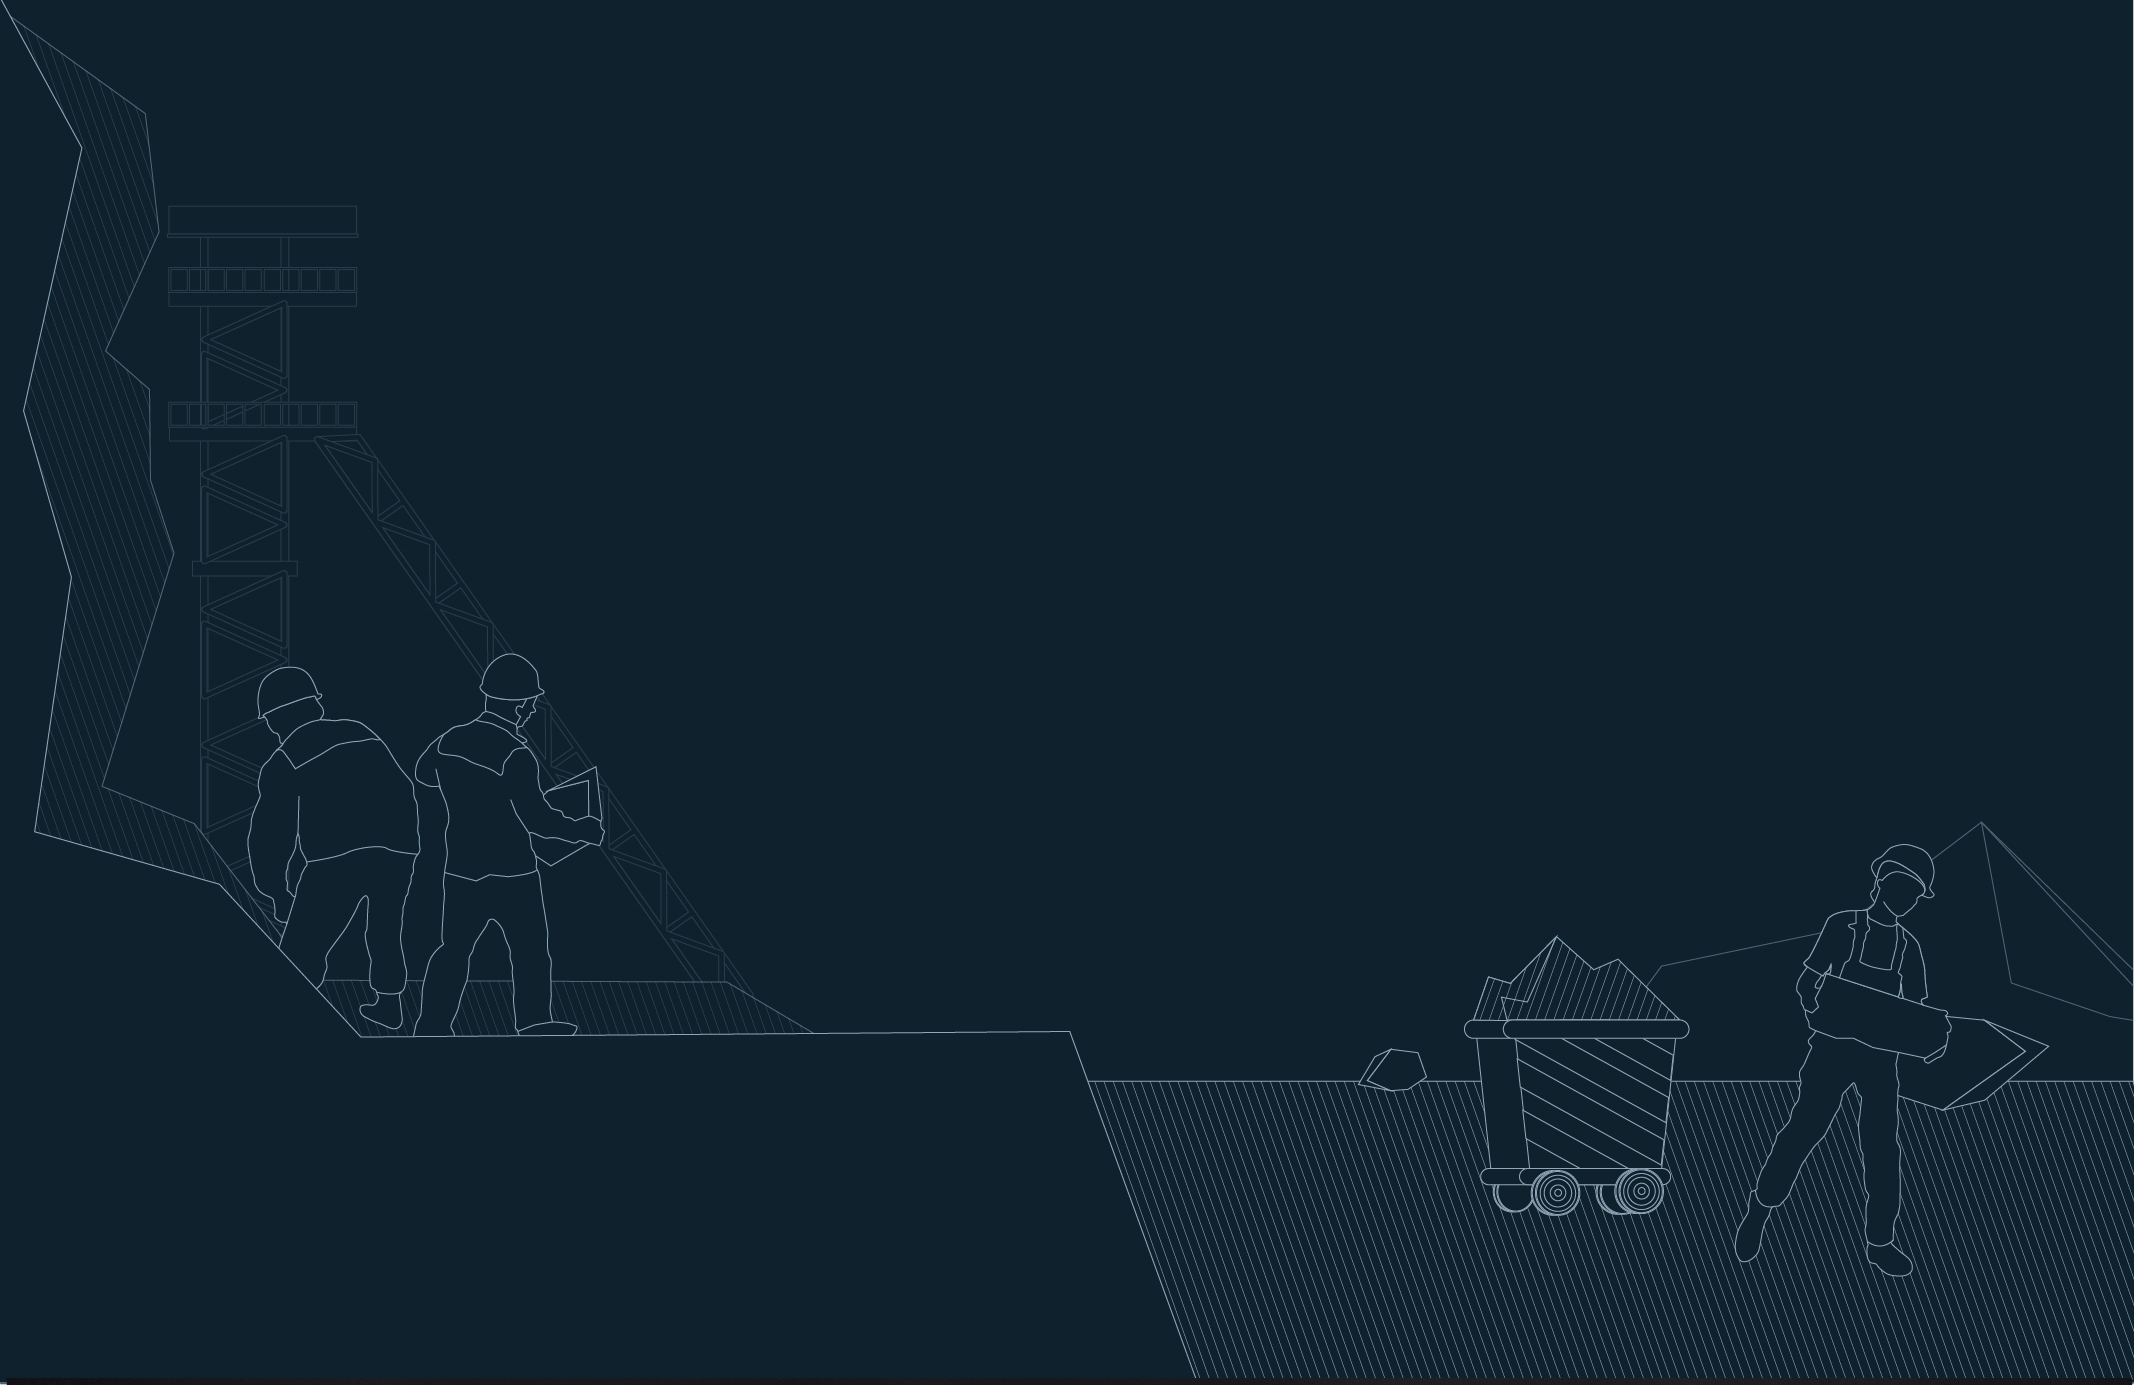
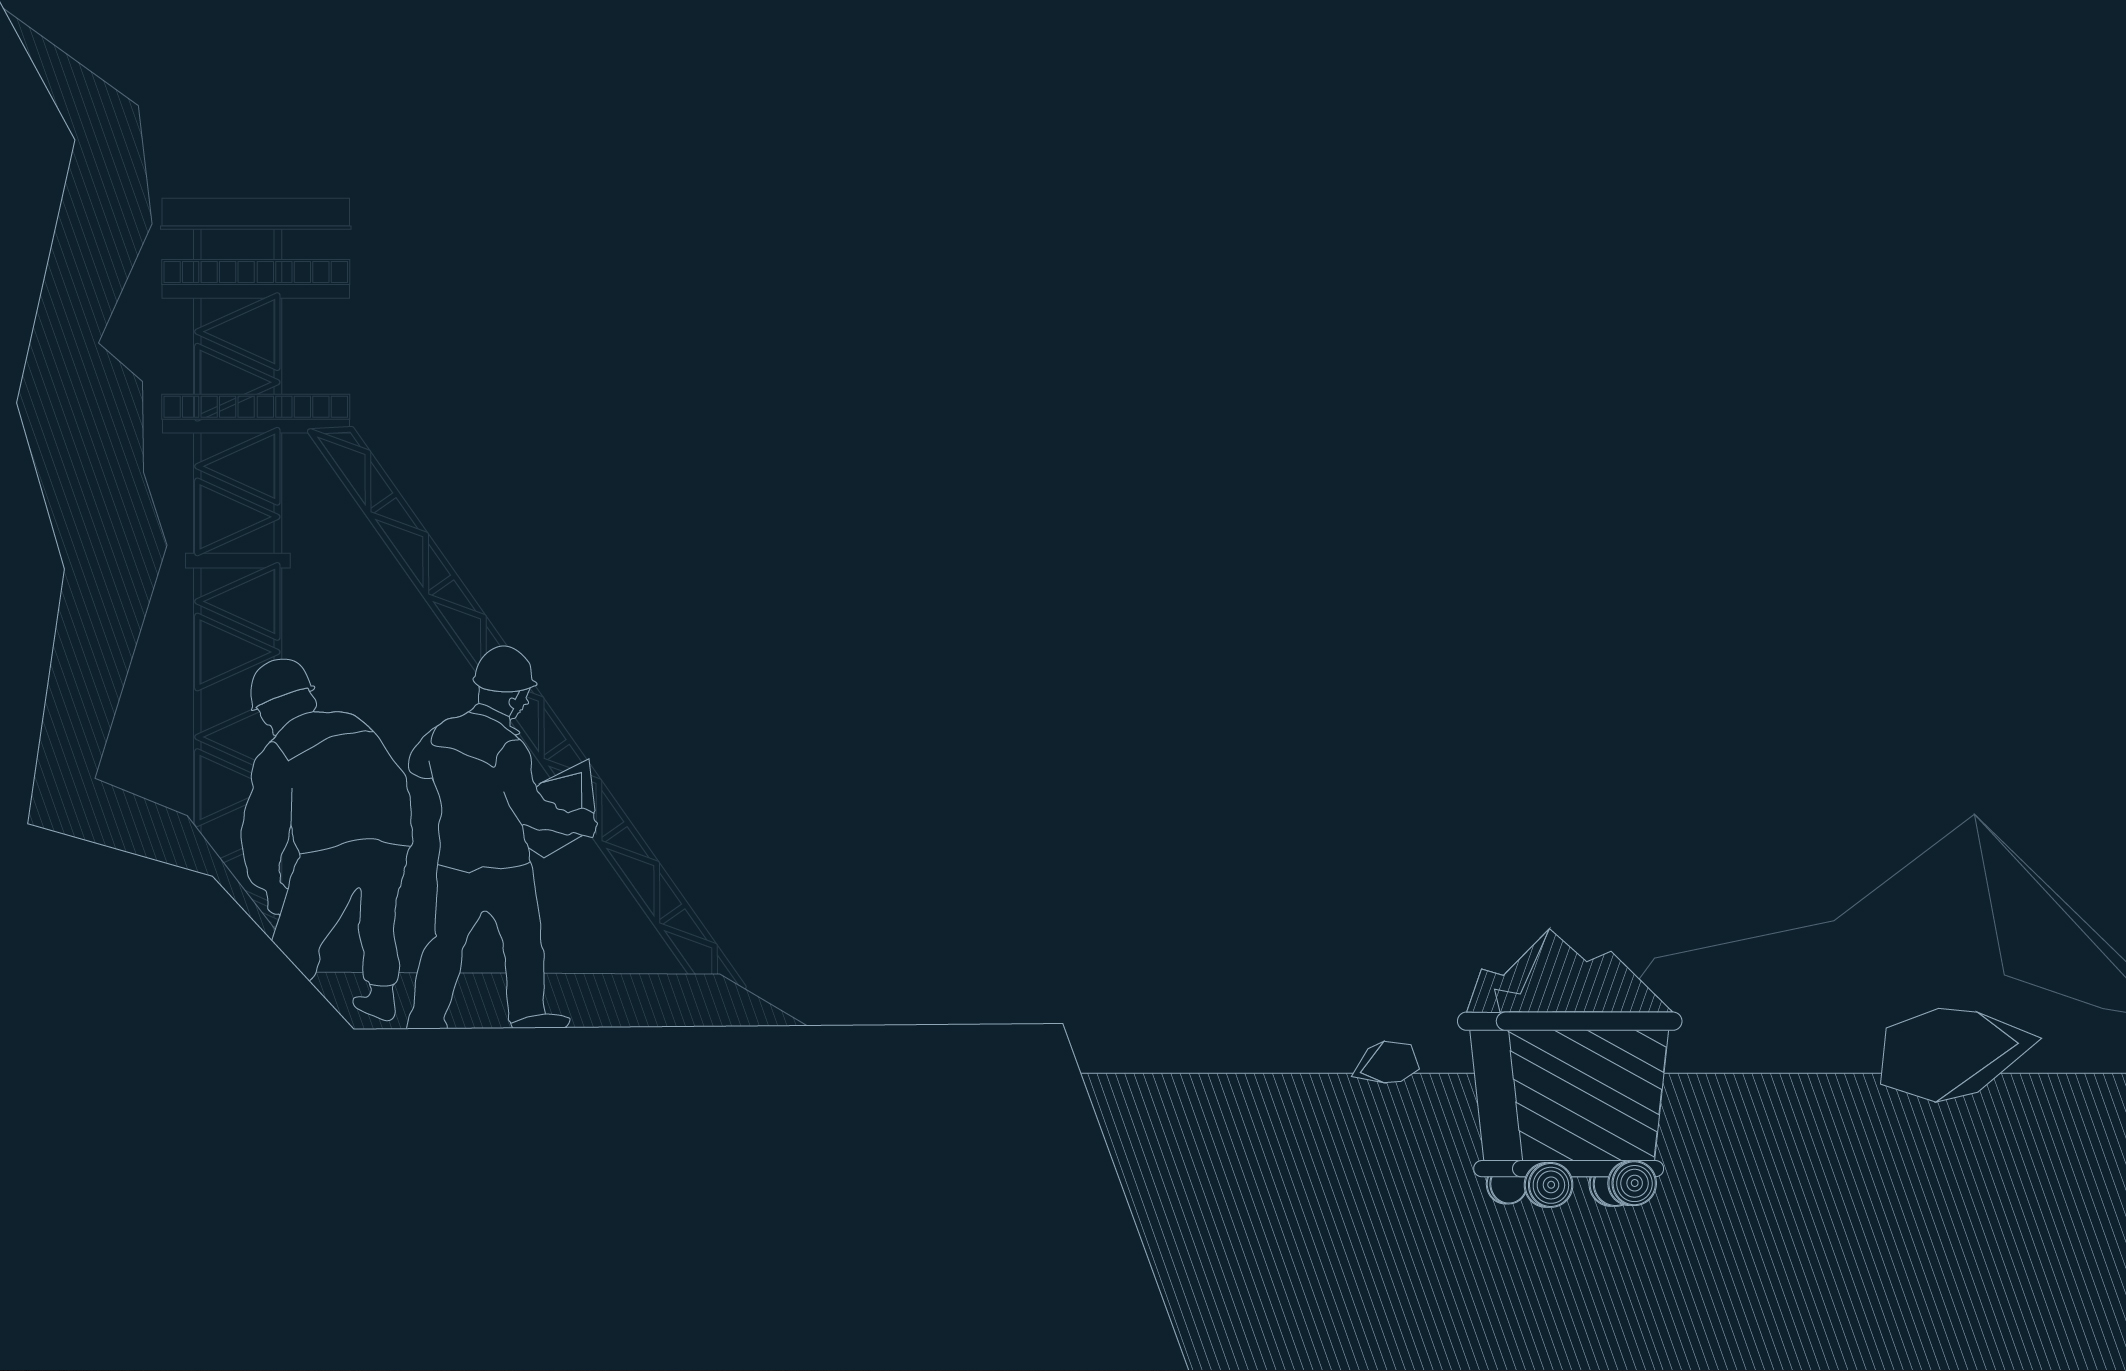
initial commit

diff --git a/about.html b/about.html
@@ -106,7 +106,7 @@
         </div>
       </div>
     </div> 
-    <div class="container-fluid about-mid bg-dark-blue">
+    <div class="container-fluid about-mid bg-dark-blue position-relative overflow-hidden">
       <div class="row">
         <div class="col-lg-12 pl-lg-0">
           <div class="content-wrapper d-flex">
@@ -170,6 +170,7 @@
           </div>
         </div>
       </div>
+      <img class="guy move-right" src="images/about-content-guy-05.png" alt="">
     </div>
     <div class="container-fluid about-bottom-content">
       <div class="row">

diff --git a/css/style.css b/css/style.css
@@ -342,8 +342,15 @@ a:hover{
 .about-mid .second-section{
     background-image: url(../images/about-mid-second-section-04.jpg);
     padding-top: 11rem;
-    padding-bottom: 40.2rem;
-    background-size: cover;;
+    padding-bottom: 34.7rem;
+    background-size: cover;
+    background-position: bottom;
+}
+.about-mid .guy{
+    position: absolute;
+    bottom: 7vh;
+    right: 10vw;
+    width: 139px;
 }
 .footer-content .number-counter{
     font-size: 80px;
